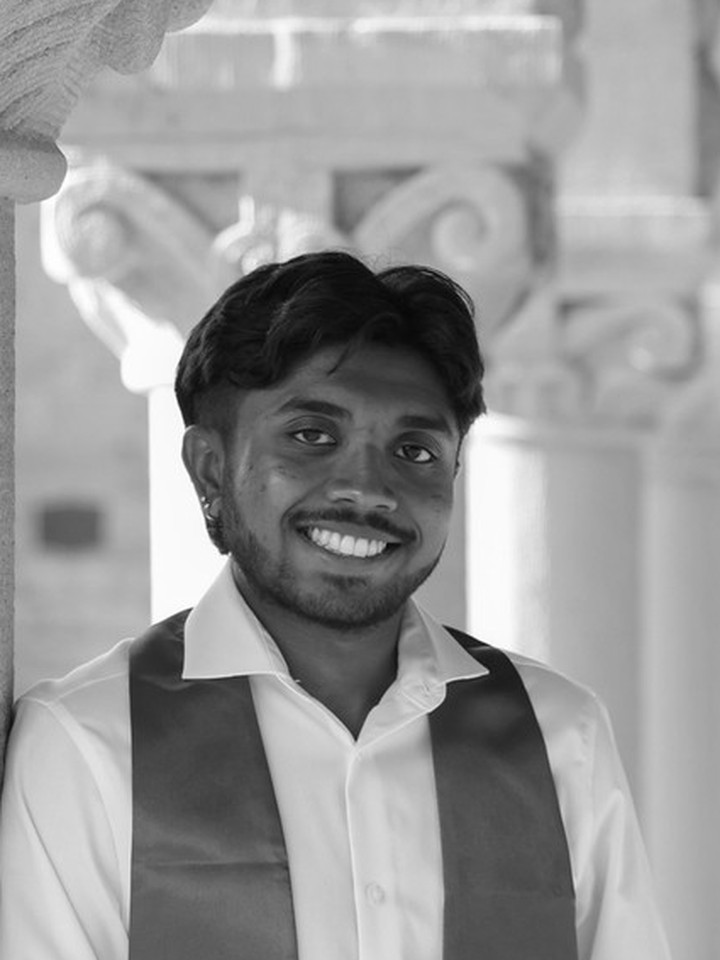
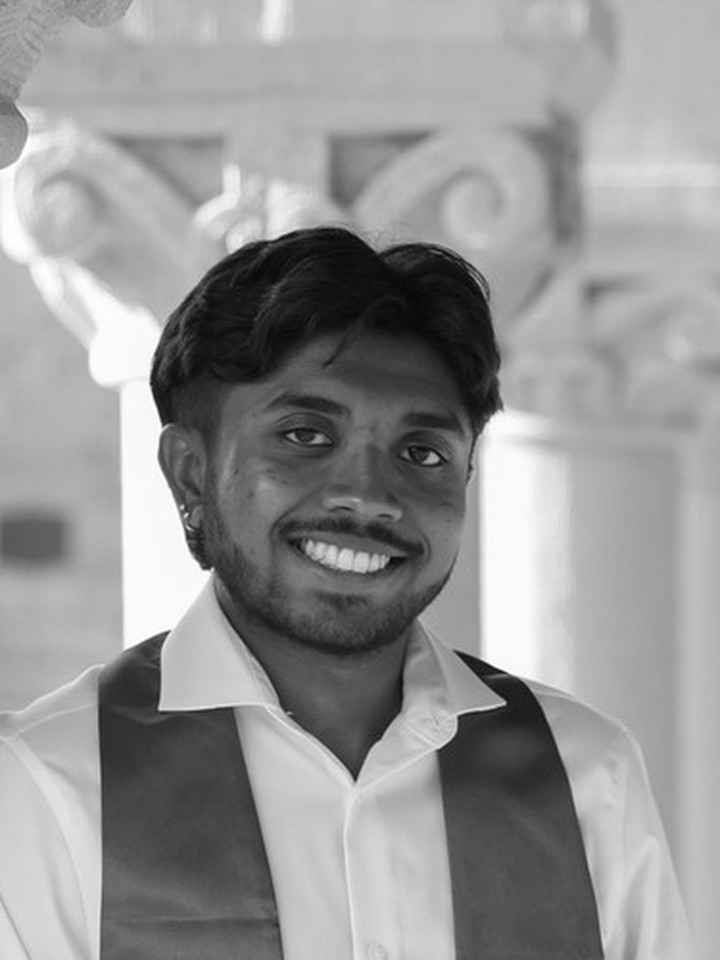
Add Lindsey Andersen as Board of Directors member, tighter Ashwin crop

diff --git a/lib/content.ts b/lib/content.ts
@@ -267,6 +267,15 @@ export function getDefaultContent(): SiteContent {
           link: "",
           bio: "Sara Kostanteen is a management consultant and strategic operator with over a decade of experience advising Fortune 500 companies and high-growth brands on GTM strategy, AI transformation, and organizational design. Born and raised in Egypt, Sara immigrated to the United States and earned a merit-based scholarship to Yale School of Management, where she received her MBA. Beyond her professional work, Sara has served as a Special Advocate with San Francisco CASA, championing foster youth in the court system. She is passionate about using her platform and skills to support communities navigating systems that were not built with them in mind.",
         },
+        {
+          name: "Lindsey Andersen",
+          role: "Board of Directors",
+          initials: "LA",
+          photo: "/images/team/lindsey.jpg",
+          photoPosition: "object-[center_20%]",
+          link: "",
+          bio: "Lindsey Andersen advises companies on the responsible development and deployment of technology as a Director at BSR. She has a background in international human rights, with a focus on digital rights and digital security, and previously worked on these issues at Internews and Access Now. Lindsey has a Masters in public policy from Princeton University.",
+        },
       ],
     },
     contact: {
